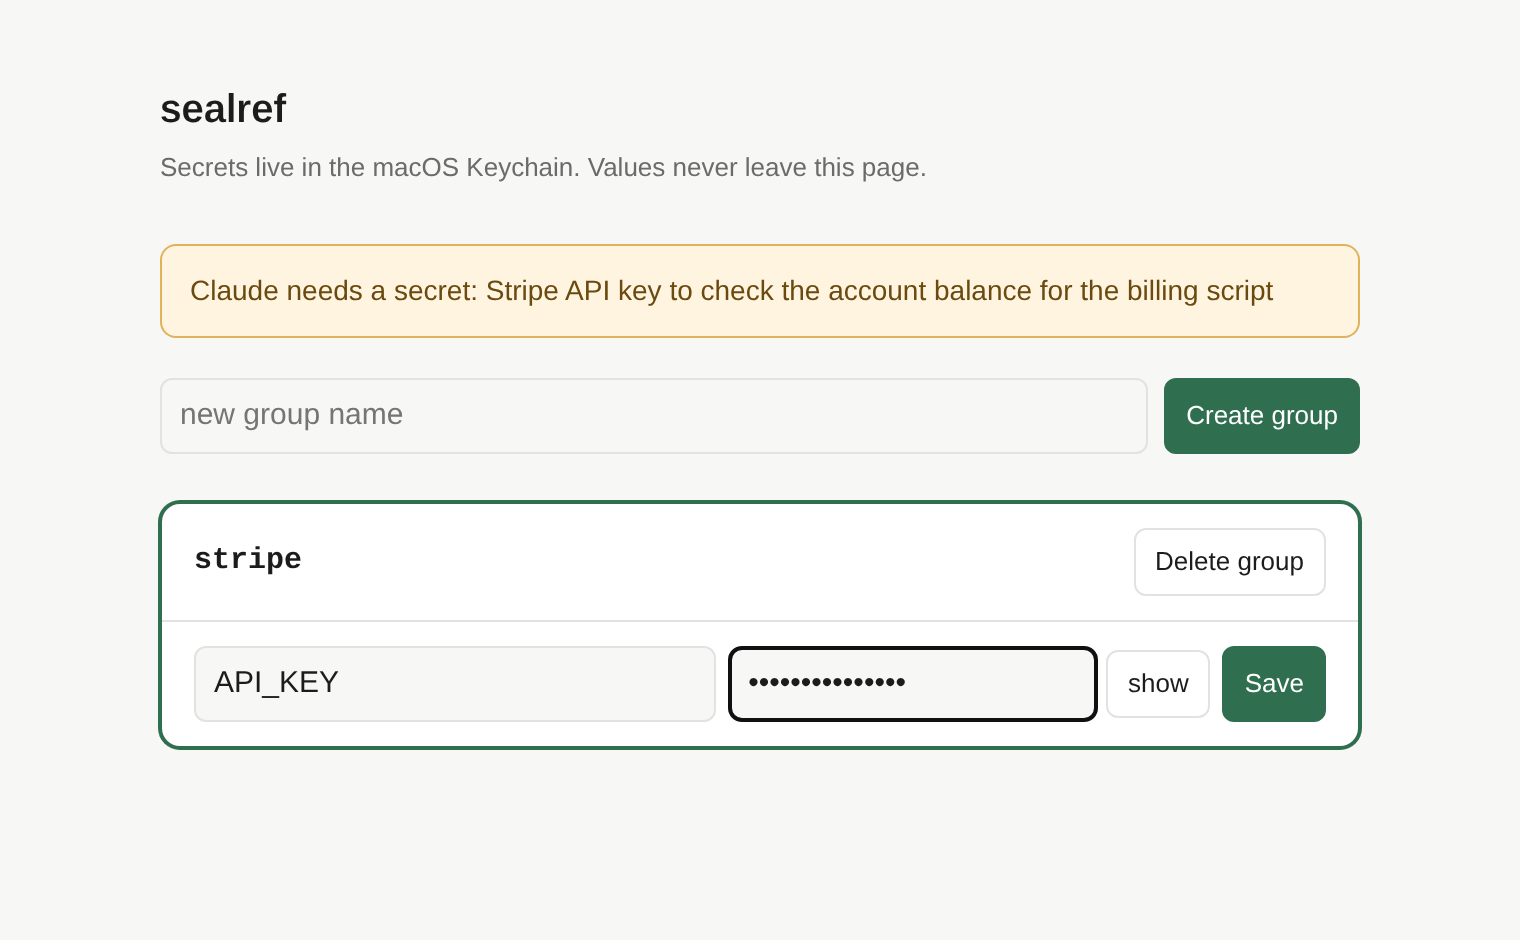
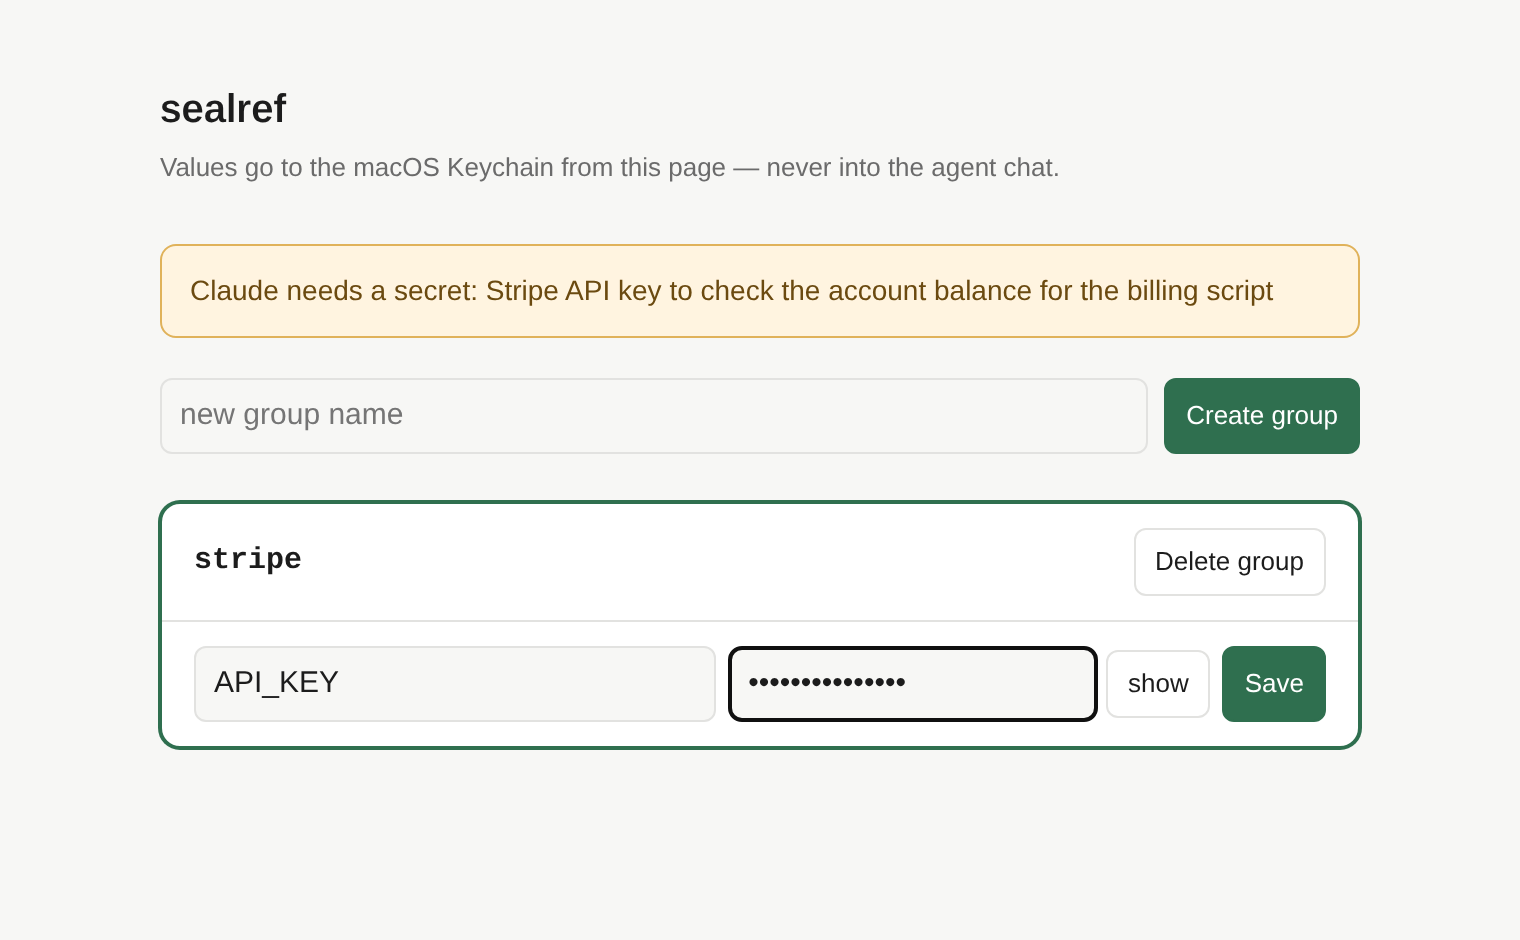
README/UI: disclose how screenshots were made, fix two overclaims
- Screenshots section: say they were captured on Linux with a stand-in
  security helper, and that panels 2-3 are styled HTML frames around
  real MCP/CLI output.
- UI subtitle: 'Values never leave this page' was wrong (they go to the
  Keychain via security -i). Now: 'Values go to the macOS Keychain from
  this page — never into the agent chat.' Re-shot 01 and 04.
- How section: redaction covers the raw value and its base64 /
  URL-encoded forms in line-buffered stdout/stderr, not 'anything the
  process prints'; link the threat model.

Changed region(s): [[0.0928, 0.1543, 0.6803, 0.1851]]

diff --git a/sealref/ui.py b/sealref/ui.py
@@ -219,7 +219,7 @@ PAGE = """<!doctype html>
 <body>
 <main>
   <h1>sealref</h1>
-  <div class="sub">Secrets live in the macOS Keychain. Values never leave this page.</div>
+  <div class="sub">Values go to the macOS Keychain from this page — never into the agent chat.</div>
   <div id="banner"></div>
   <div class="new-group">
     <input id="new-group-name" type="text" placeholder="new group name">

diff --git a/README.md b/README.md
@@ -23,7 +23,9 @@ local page opens in your browser, you type the value there, and it is stored in
 the macOS Keychain; the agent gets back only the reference
 `sealref://stripe/API_KEY`. To use the key, the agent runs its command through
 `sealref run`, which puts the value into that one process's environment and
-replaces it with `«redacted:stripe/API_KEY»` in anything the process prints.
+replaces the raw value and its base64 / URL-encoded forms in the child's
+line-buffered stdout/stderr with `«redacted:stripe/API_KEY»` (see
+[Threat model](#threat-model) for limits).
 
 ```
                  the chat contains           command output that echoes the key shows
@@ -37,7 +39,9 @@ stop an agent that is trying to get the value; see [Threat model](#threat-model)
 ## Screenshots
 
 Captured from a real run of the MCP server, CLI and local page, with dummy
-values such as `sk-test-EXAMPLE`. Refs are shown as `sealref://` because
+values such as `sk-test-EXAMPLE`. Captured on Linux with a stand-in `security`
+helper (no macOS Keychain on the capture box). MCP/CLI outputs are real;
+panels 2–3 are styled HTML frames, not raw Terminal.app. Refs are shown as `sealref://` because
 `SEALREF_REF_SCHEME=sealref` was set; by default they print as `vaultlet://`
 (see [Renamed from vaultlet](#renamed-from-vaultlet-compatibility)).
 
